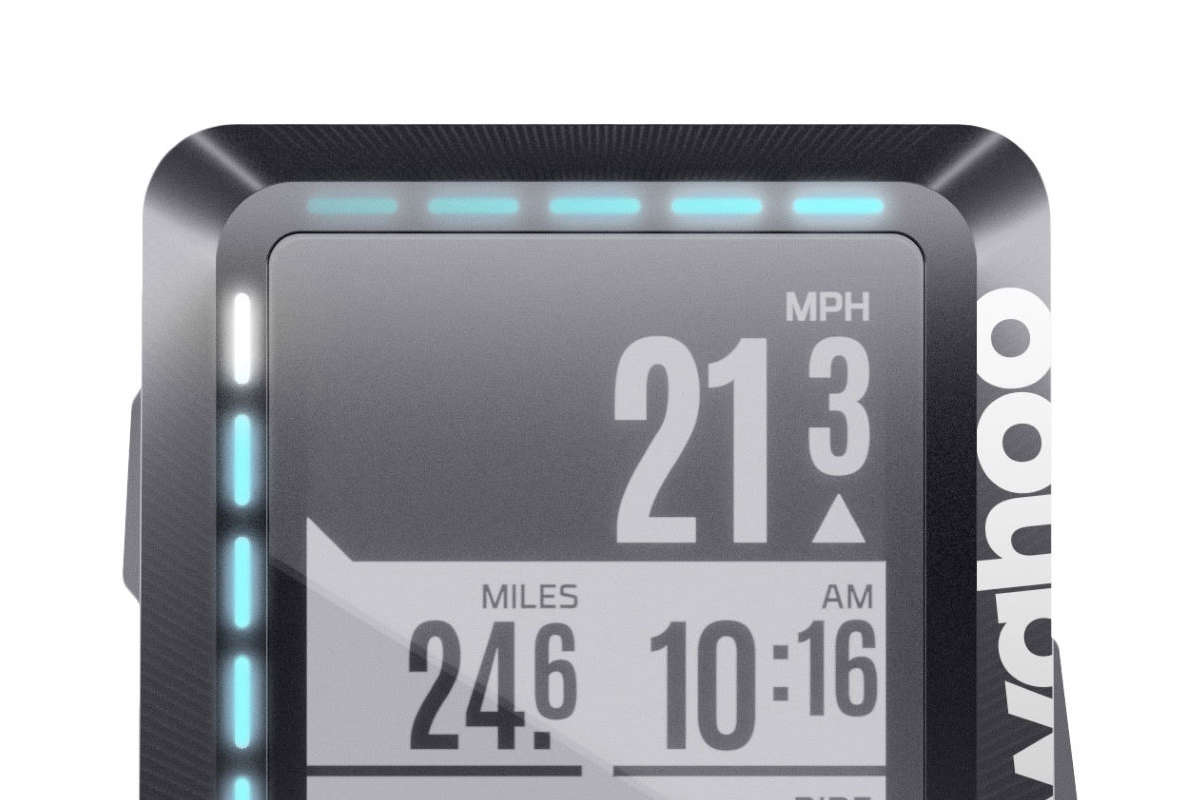
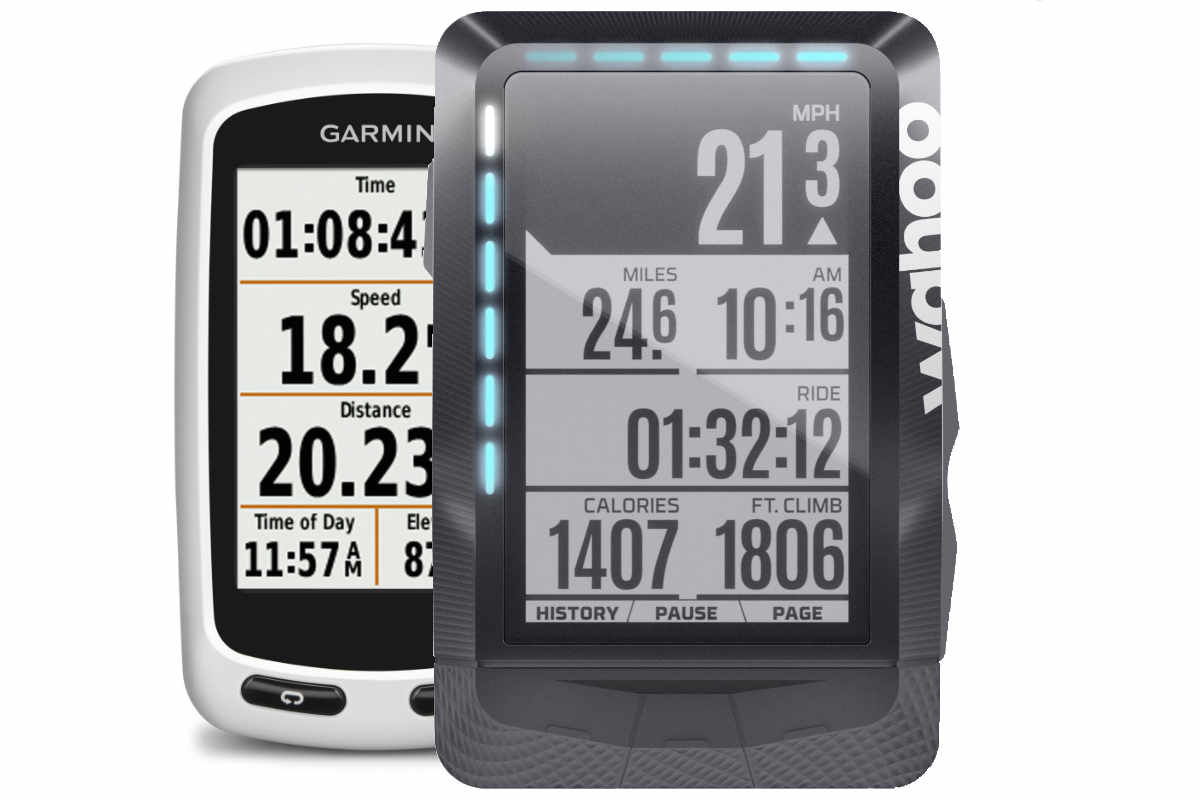
next

diff --git a/source/_posts/elemnt.md b/source/_posts/elemnt.md
@@ -4,3 +4,5 @@ cover_image: images/elemnt.jpg
 date: 2018-02-25 14:35:06
 ---
 ![Elemnt](/images/elemnt.gif)
+
+Austausch des alten Garmin Edge Tour gegen ein Wahoo Elemnt
